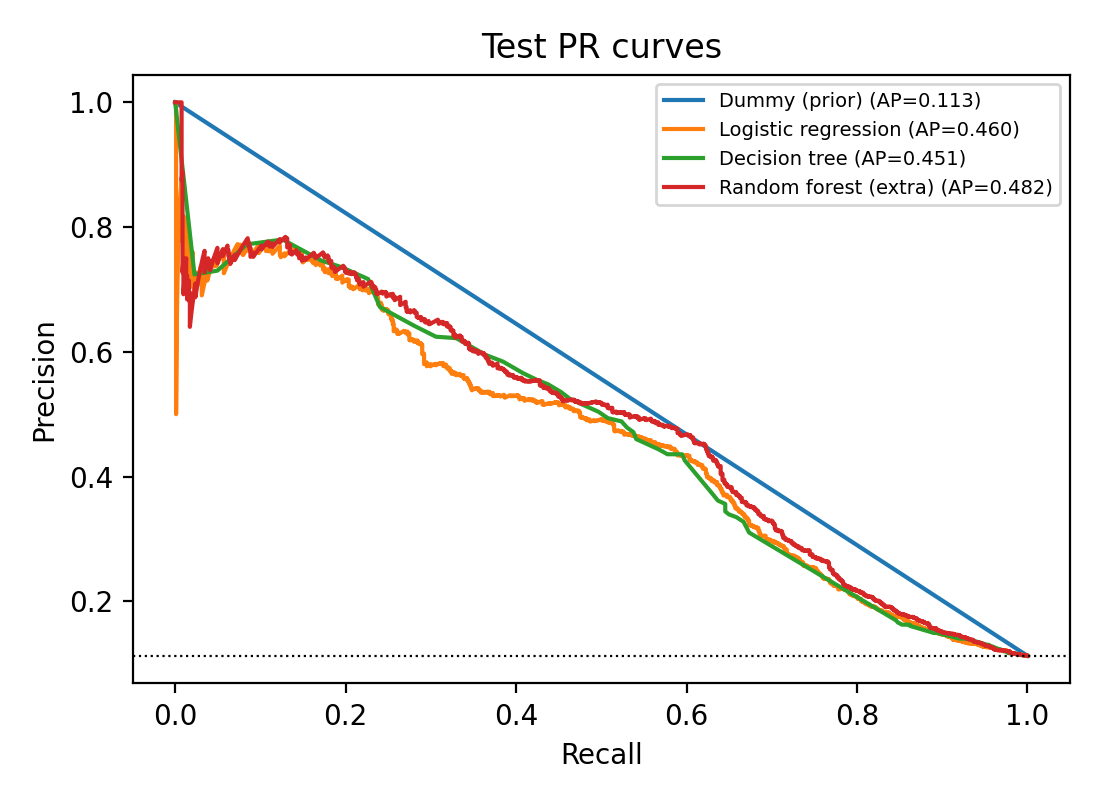
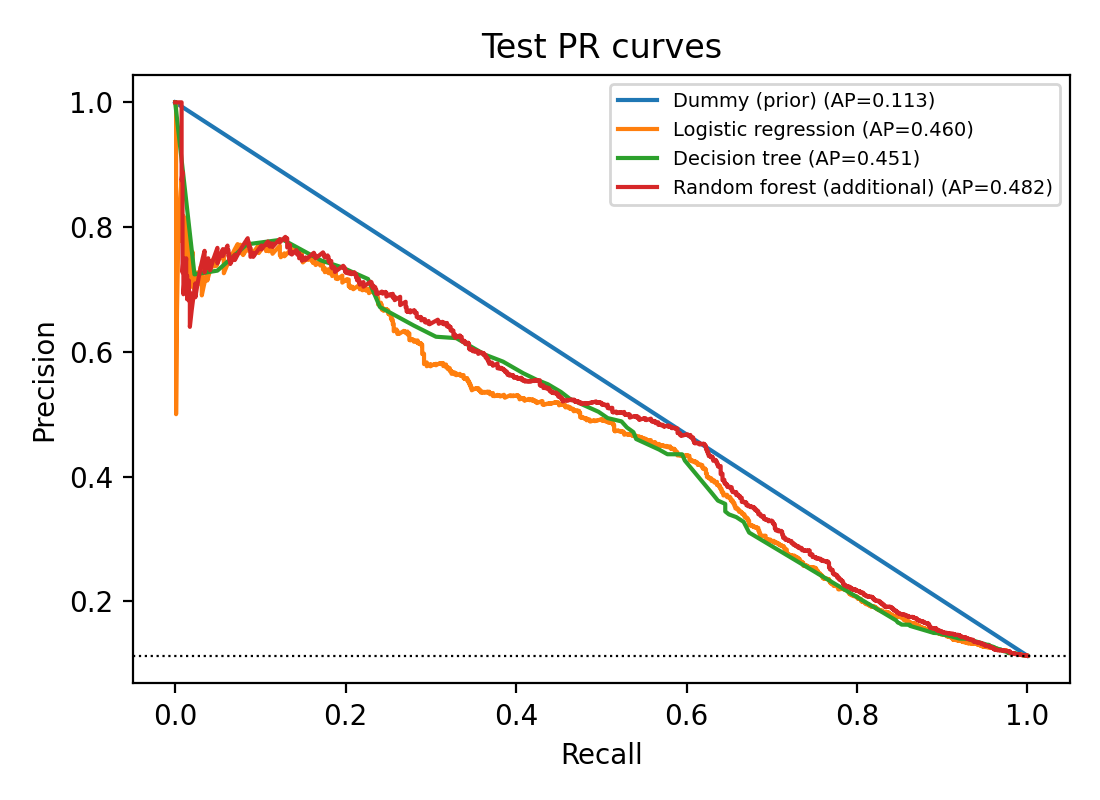
Rename random forest label

Changed region(s): [[0.5564, 0.0938, 0.9273, 0.2812]]

diff --git a/run_project.py b/run_project.py
@@ -124,7 +124,7 @@ def main():
         "Decision tree": [DecisionTreeClassifier(max_depth=d, min_samples_leaf=l, class_weight="balanced",
                                                  random_state=SEED)
                           for d in [3, 5, 8] for l in [20, 50, 100]],
-        "Random forest (extra)": [RandomForestClassifier(n_estimators=300, max_depth=d, min_samples_leaf=20,
+        "Random forest (additional)": [RandomForestClassifier(n_estimators=300, max_depth=d, min_samples_leaf=20,
                                                          class_weight="balanced_subsample", n_jobs=-1,
                                                          random_state=SEED) for d in [8, 12]],
     }
